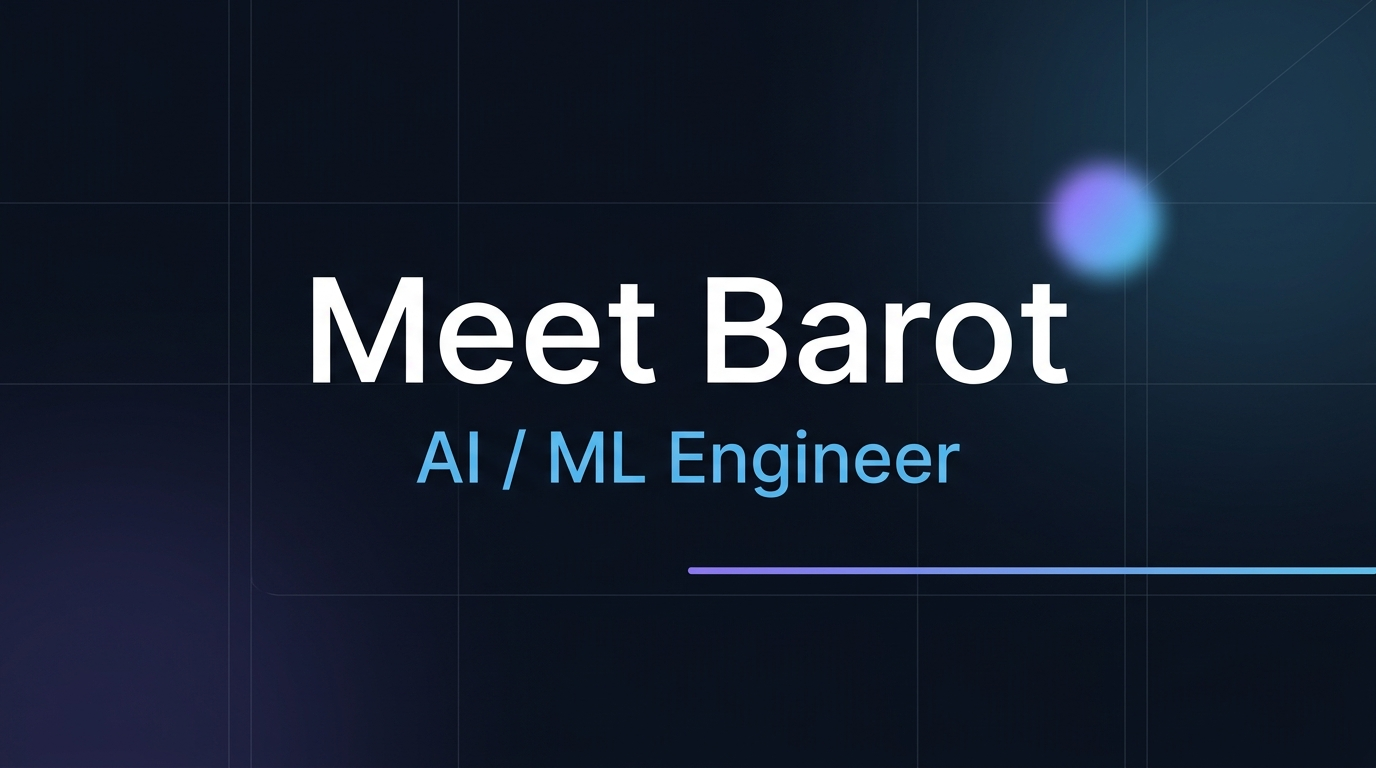
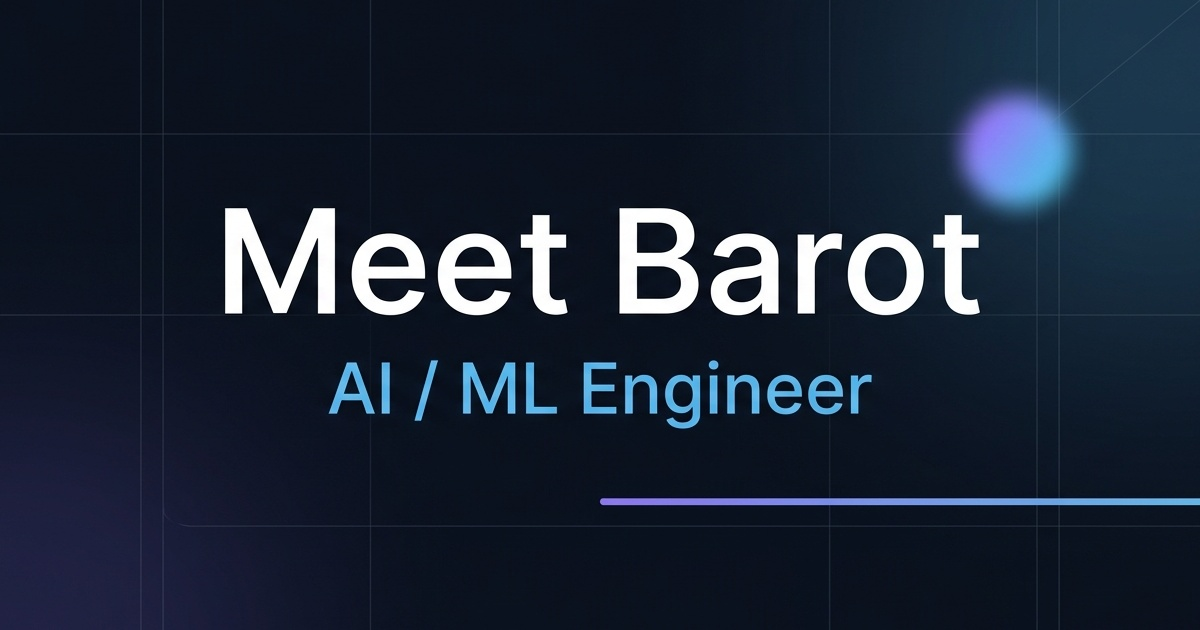
fix: resolve final 3 portfolio issues
- Projects: pass current project directly to View Details to resolve race condition, immediately pause autoplay on hover/focus
- Routing: add vercel.json for SPA fallback routing (direct routes no longer 404)
- Meta: crop og-image.jpg to exactly 1200x630 using center slice

diff --git a/src/components/Projects.jsx b/src/components/Projects.jsx
@@ -532,15 +532,13 @@ export default function Projects() {
   }
 
   // Handler for "View Details" that blocks swipe and opens detail
-  const handleViewDetails = useCallback((e) => {
+  const handleViewDetails = useCallback((e, projectToShow) => {
     e.stopPropagation()
     e.preventDefault()
     swipeBlocked.current = true
-    // Capture the project at click time to avoid stale closures
-    const projectToShow = PROJECTS[activeIndex]
-    setDetailProject(projectToShow)
     clearInterval(autoplayRef.current)
-  }, [activeIndex])
+    setDetailProject(projectToShow)
+  }, [])
 
   // Keyboard navigation
   useEffect(() => {
@@ -611,9 +609,9 @@ export default function Projects() {
         {/* ── Center content ── */}
         <div
           className="absolute inset-0 z-[3] flex items-center justify-center"
-          onMouseEnter={() => setIsHovering(true)}
+          onMouseEnter={() => { setIsHovering(true); clearInterval(autoplayRef.current); }}
           onMouseLeave={() => setIsHovering(false)}
-          onFocus={() => setIsHovering(true)}
+          onFocus={() => { setIsHovering(true); clearInterval(autoplayRef.current); }}
           onBlur={() => setIsHovering(false)}
         >
           <AnimatePresence mode="wait" custom={direction}>
@@ -666,10 +664,13 @@ export default function Projects() {
               {/* "View Details" button — isolated from swipe/carousel */}
               <motion.button
                 ref={viewDetailsRef}
-                onClick={handleViewDetails}
-                onPointerDown={(e) => { e.stopPropagation(); swipeBlocked.current = true }}
-                onTouchStart={(e) => { e.stopPropagation(); swipeBlocked.current = true }}
+                onClick={(e) => handleViewDetails(e, current)}
+                onPointerDown={(e) => { e.stopPropagation(); swipeBlocked.current = true; clearInterval(autoplayRef.current); }}
+                onTouchStart={(e) => { e.stopPropagation(); swipeBlocked.current = true; clearInterval(autoplayRef.current); }}
                 onTouchEnd={(e) => { e.stopPropagation() }}
+                onFocus={() => { setIsHovering(true); clearInterval(autoplayRef.current); }}
+                onMouseEnter={() => { setIsHovering(true); clearInterval(autoplayRef.current); }}
+                onMouseLeave={() => setIsHovering(false)}
                 className="inline-flex items-center gap-2 px-5 py-2.5 sm:px-7 sm:py-3 rounded-full font-manrope font-semibold text-[11px] sm:text-sm"
                 style={{
                   background: 'rgb(var(--bg-primary) / 0.3)',
